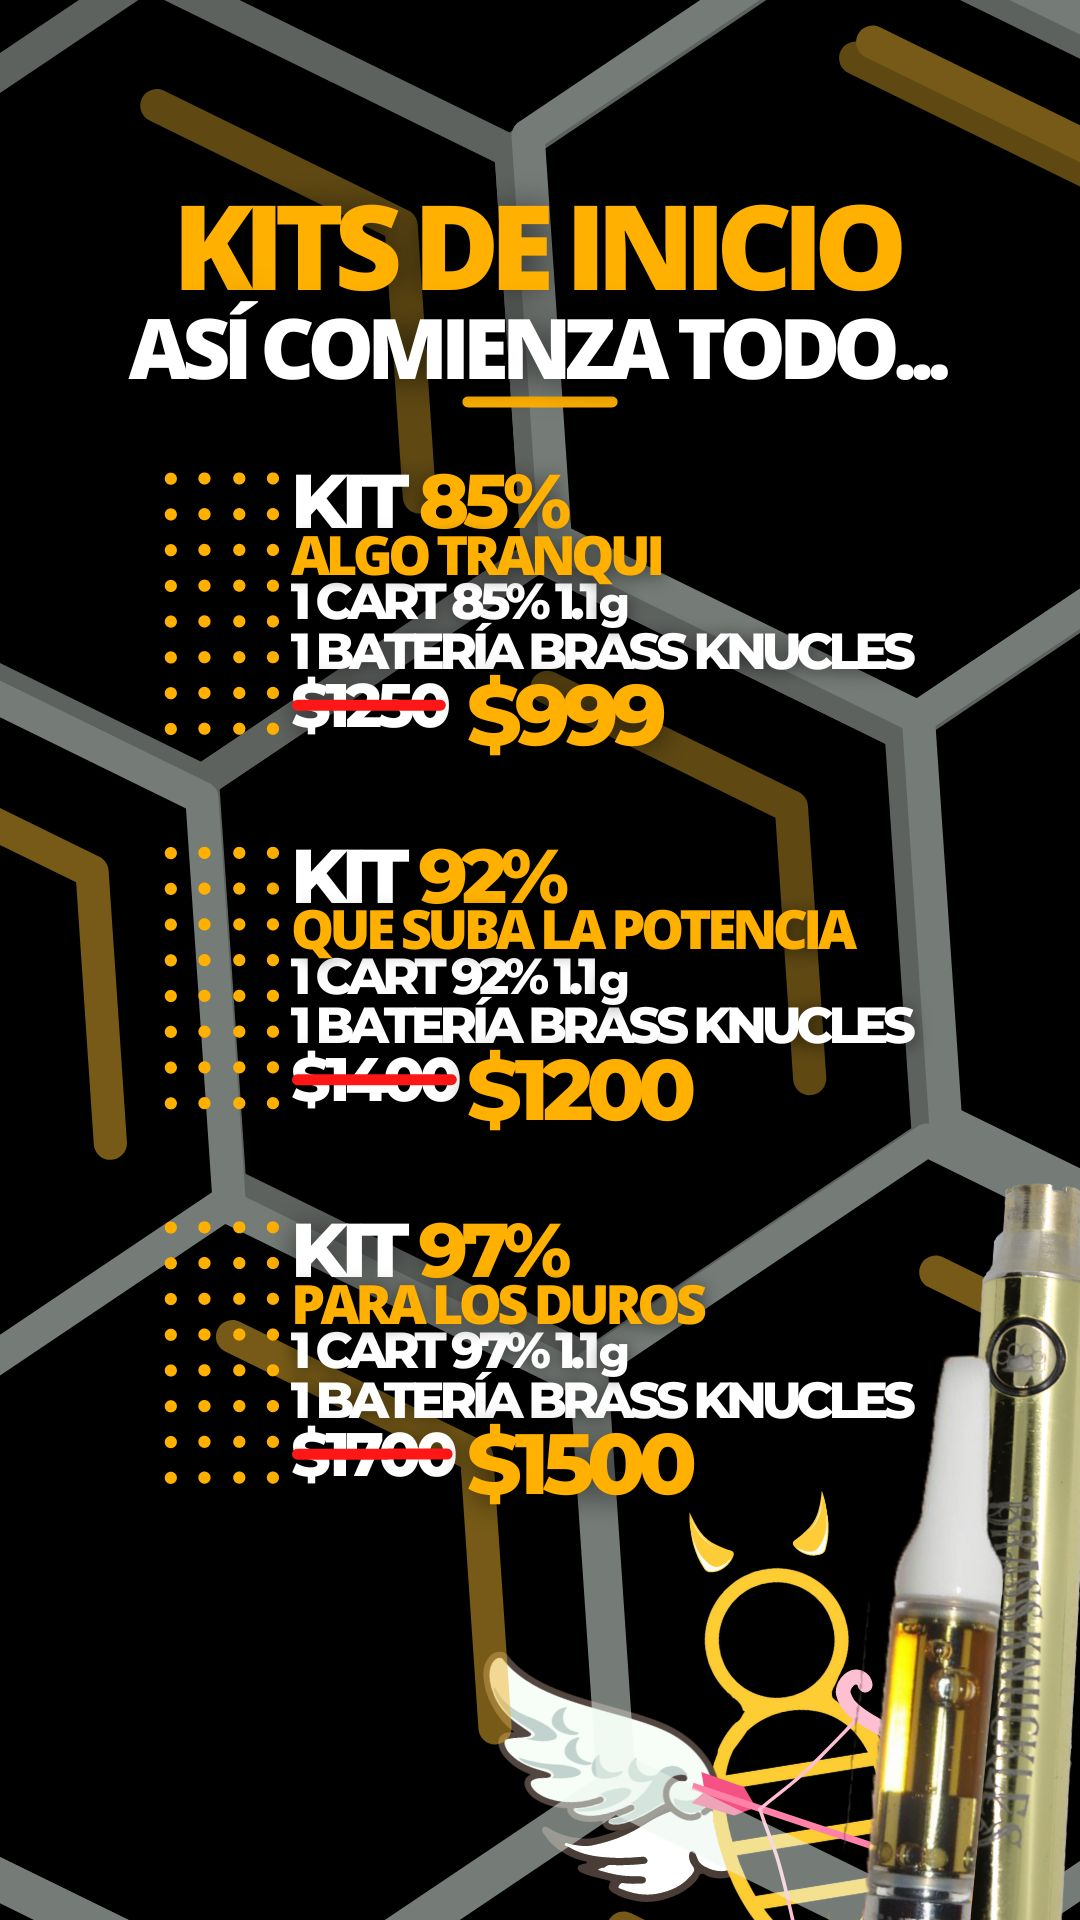
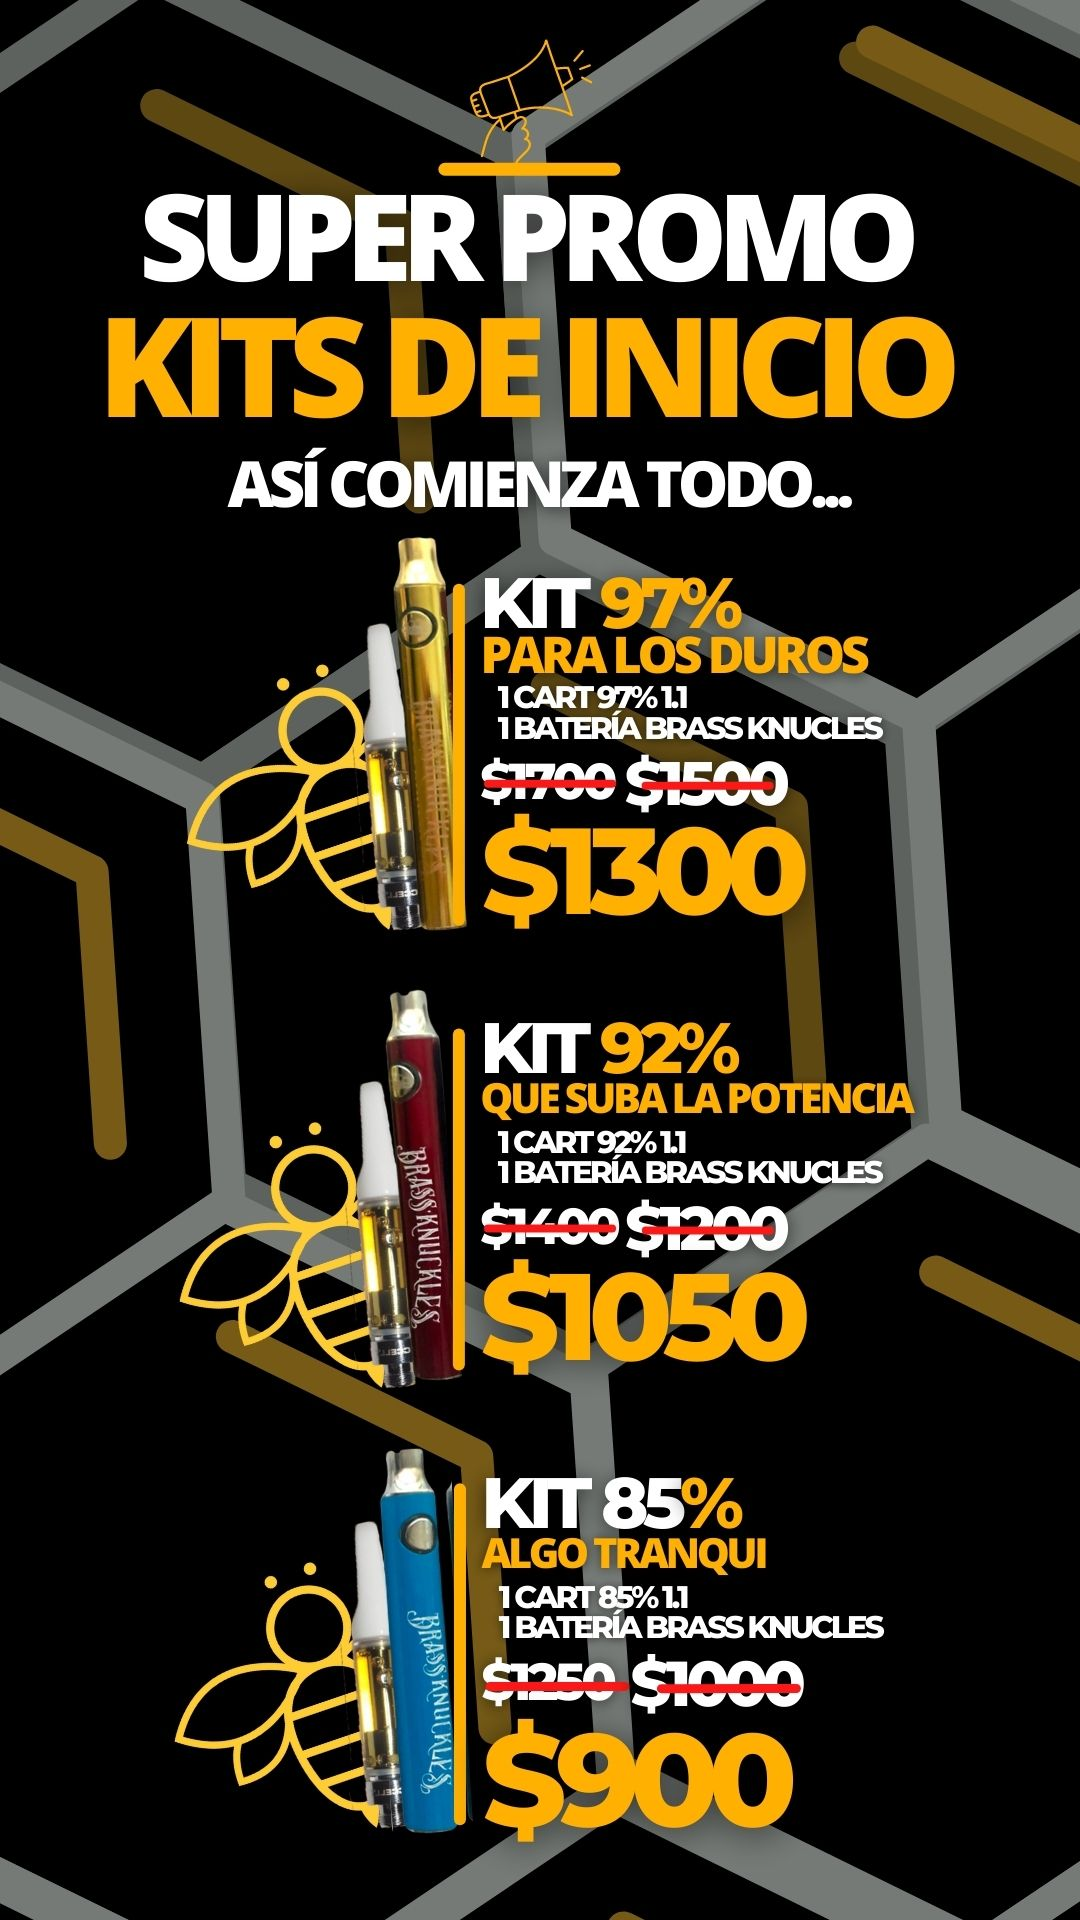
add

diff --git a/home.html b/home.html
@@ -79,6 +79,13 @@
                 </div>
             </article>
 
+            
+            <article class="slide">
+                <div class="infoProducto">
+                    <img src="/media/kitsdeinicio.jpg" alt="Promo1" class="imagenPromo"> <!--dejar esta promo siempre-->
+                </div>
+            </article>
+
             <article class="slide">
                 <div class="infoProducto">
                     <img src="/media/nuevos85.jpg" alt="Promo1" class="imagenPromo"> <!--dejar esta promo siempre-->
@@ -87,15 +94,10 @@
 
             <article class="slide">
                 <div class="infoProducto">
-                    <img src="/media/CDMXLUNES.jpg" alt="Promo1" class="imagenPromo"> <!--dejar esta promo siempre-->
+                    <img src="/media/enviomil.jpg" alt="Promo1" class="imagenPromo"> <!--dejar esta promo siempre-->
                 </div>
             </article>
-            
-            <article class="slide">
-                <div class="infoProducto">
-                    <img src="/media/kits.jpg" alt="Promo1" class="imagenPromo"> <!--dejar esta promo siempre-->
-                </div>
-            </article>
+    
 		</section>
 
 
